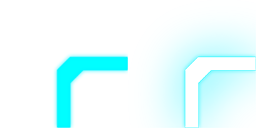
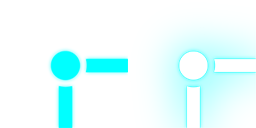
パネル変更

Changed region(s): [[0.6875, 0.375, 1.0, 1.0], [0.1875, 0.375, 0.5, 1.0]]

diff --git a/Eleconnect/Eleconnect/sources/Scene/GameScene.cs b/Eleconnect/Eleconnect/sources/Scene/GameScene.cs
@@ -33,6 +33,8 @@ namespace Eleconnect
 		//private Texture2D guideTex;
 		public Animation electhSp;
 		private Texture2D electhTex;
+		public Animation lowElecthSp;
+		private Texture2D lowElecthTex;
 		// 音楽
 		protected MusicEffect musicEffect;
 		protected MusicEffect resultEffect;
@@ -123,6 +125,14 @@ namespace Eleconnect
 			electhSp = new Animation(electhTex,new Vector2(1.0f/6.0f, 1.0f/2.0f),3,0,5,true,true,true);
 			electhSp.pos = panelManager[stage.startX, stage.startY].GetPos();
 			
+			if(lowElecthTex == null)
+			{
+				lowElecthTex = new Texture2D(@"/Application/assets/img/electh.png", false);
+			}
+			lowElecthSp = new Animation(lowElecthTex,new Vector2(1.0f/6.0f, 1.0f/2.0f),5,0,5,true,true,true);
+			lowElecthSp.pos = panelManager[stage.goalX,stage.goalY].GetPos();
+			lowElecthSp.color = new Vector4(1.0f,0.1f,0.1f,1.0f);
+			
 			// インスタンス生成
 			cursor = new CursorOnPanels(panelManager);
 			menuManager = new MenuManager();
@@ -200,11 +210,15 @@ namespace Eleconnect
 			panelManager.Update();
 			jammingManager.Update();
 			electhSp.Update();
+			lowElecthSp.Update();
 			gameUi.Update(nowState);
 			
 			frameCnt++;
 			eleRotate++;
 			electhSp.angle=eleRotate;
+			lowElecthSp.angle = eleRotate * 0.75f;
+			lowElecthSp.color.W = 0.3f + 
+						 FMath.Sin(FMath.Radians(frameCnt * 3)) * 0.6f;
 			
 		}
 		
@@ -385,7 +399,11 @@ namespace Eleconnect
 			backSp.Draw();
 			//guideSp.Draw ();
 			panelManager.Draw();
-			if(nowState != StateId.CLEAR) jammingManager.Draw();
+			if(nowState != StateId.CLEAR) 
+			{
+				jammingManager.Draw();
+				lowElecthSp.DrawAdd();
+			}
 			if(nowState == StateId.GAME) cursor.Draw();
 			if(nowState == StateId.PAUSE) menuManager.Draw();
 			if(nowState == StateId.CLEAR && seFlg == true) result.Draw();
@@ -405,6 +423,7 @@ namespace Eleconnect
 			backSp.Term();
 			//electhTex.Dispose ();
 			electhSp.Term();
+			lowElecthSp.Term();
 			cursor.Term();
 			panelManager.Term();
 			jammingManager.Term();

diff --git a/Eleconnect/Eleconnect/sources/Game/PanelManager.cs b/Eleconnect/Eleconnect/sources/Game/PanelManager.cs
@@ -75,7 +75,7 @@ namespace Eleconnect
 			if(PlayData.GetInstance().stageNo < 0) return;
 			Stage_Base stageData;
 			stageData = new StageDataList()[PlayData.GetInstance().stageNo];
-			for(int i = 6; i < stageData.stageData.Length; i++)
+			for(int i = 7; i < stageData.stageData.Length; i++)
 			{
 				for(int j = 0; j < GameScene.stage.height; j++)
 				{

diff --git a/Eleconnect/Eleconnect/sources/Scene/SceneManager.cs b/Eleconnect/Eleconnect/sources/Scene/SceneManager.cs
@@ -37,7 +37,7 @@ namespace Eleconnect
 		{
 			// 最初に開始するシーン
 			PlayData.GetInstance().stageNo = 0;
-			nowScene = new LogoScene();
+			nowScene = new TitleScene();
 			
 			fade = new Fade();
 		}
